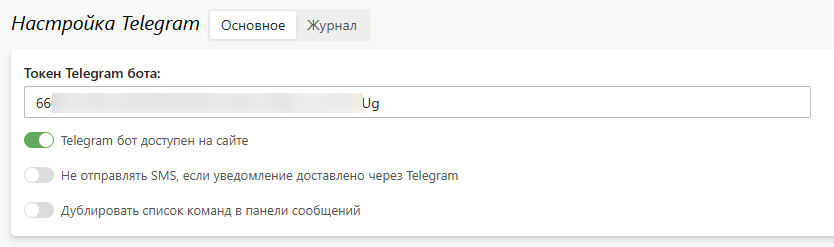
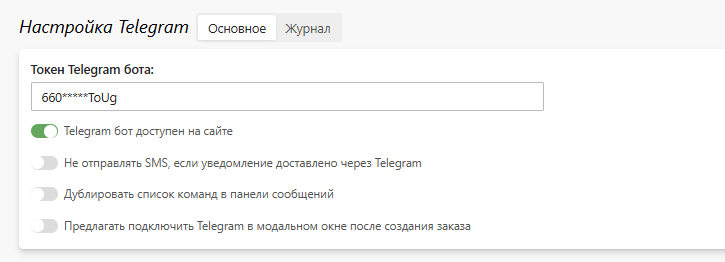
fix

diff --git a/docs/marketing/notifications.md b/docs/marketing/notifications.md
@@ -56,9 +56,9 @@ sidebar_position: 6
 * ![](../_media/marketing/notifications10.png)
 
 ## Настройка Max
-1. Ознакомьтесь с инструкцией по созданию бота и получению **токена для интеграции** в [документации MAX](https://dev.max.ru/docs/chatbots/bots-create).
+1. [Зарегистрируйтесь](https://business.max.ru/self) в мессенджере MAX и получите **токен для интеграции**, следуя [документации MAX](https://dev.max.ru/docs/chatbots/bots-create).
 2. Полученный токен введите в поле «**Токен Max бота**» в разделе  **Маркетинг → Уведомления → Настройка Max**
-![](../_media/marketing/max_integration.png)
+* ![](../_media/marketing/max_integration.png)
 
 ## Настройка вебхуков
 * В данном разделе представлен список настроенных вебхуков, каждый из которых характеризуется:
